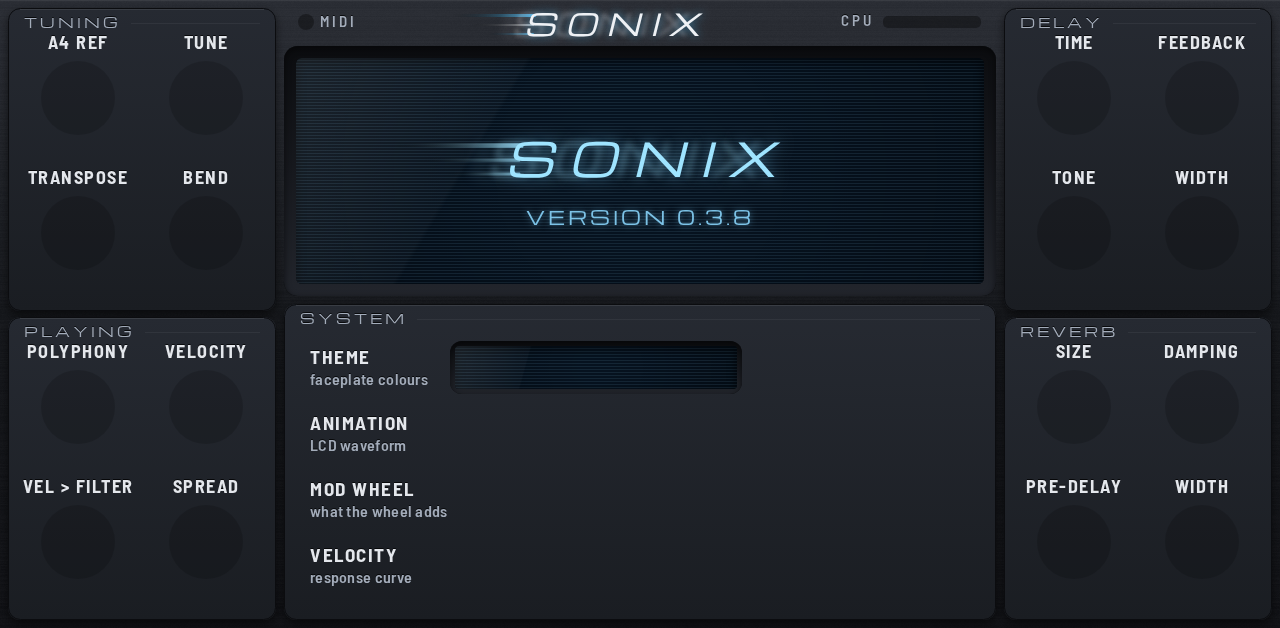
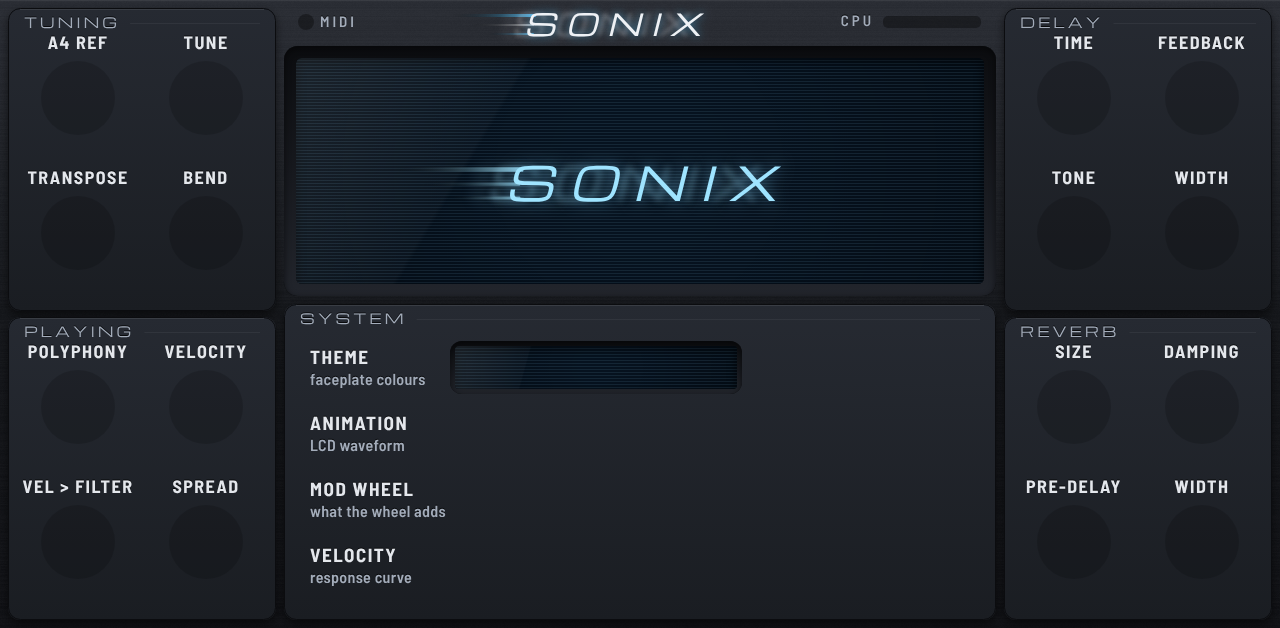
SETTINGS: drop the version from the about screen
It showed a version baked into the artwork, which went stale (0.3.10 still said 0.3.8).
The screen now shows just the logo, so the art no longer needs redrawing per release.
Only the eleven bg_settings.png pictures change.

Claude-Session: https://claude.ai/code/session_01VzP5McZMmBVAin6Mtzdvhn

diff --git a/tools/make_skin.py b/tools/make_skin.py
@@ -36,7 +36,6 @@ ART = os.path.join(VST, "art")
 FONTS = os.path.join(VST, "fonts")
 MPC_FONTS = os.path.join(os.environ.get("MPC_VST", os.path.join(HERE, "..", "..", "mpc-vst-plugins")), "tools", "html_art", "fonts")
 Y_OFF = 86
-VERSION = "0.3.8"
 
 THEMES = ["midnight", "platinum", "studio", "purple", "yellow", "gold", "green", "camo", "red", "silver", "ice"]   # = "theme" options
 THEME_NAMES = ["MIDNIGHT", "PLATINUM", "STUDIO GREY", "PURPLE", "YELLOW", "GOLD", "GREEN", "CAMO", "METALLIC RED", "SILVER", "ICE BLUE"]
@@ -629,10 +628,9 @@ function background(th, items) {
 }
 function aboutScreen(t, s) {
   const [sx, sy, sw, sh] = s, cx = sx + sw / 2;
-  // the plugin's name and version, nothing else
+  // the plugin's name, nothing else (no version: it would have to be redrawn for every release)
   const lt = Object.assign({}, t, { logo: t.lcdText, led: t.lcdText, logoGlow: t.lcdGlow });
-  ctx.save(); logo(lt, cx - 135, sy + sh / 2 + 6, 46); ctx.restore();
-  lcdGlyph(t, 'VERSION ' + C.VERSION, cx, sy + sh / 2 + 54, { size: 19, font: 'Michroma', weight: 400, align: 'center', color: t.lcdDim, spacing: 3 });
+  ctx.save(); logo(lt, cx - 135, sy + sh / 2 + 30, 46); ctx.restore();
 }
 
 // ---------- buttons: raised off, pressed and lit on ----------
@@ -836,7 +834,7 @@ ABOUT_LINES = [
 
 
 def open_page(p, with_mpc_fonts):
-    consts = dict(VERSION=VERSION, VALUE_DY=value_label()[1], TITLE_PX=TITLE_PX, LABEL_PX=LABEL_PX, VALUE_PX=VALUE_PX, BUTTON_PX=BUTTON_PX,
+    consts = dict(VALUE_DY=value_label()[1], TITLE_PX=TITLE_PX, LABEL_PX=LABEL_PX, VALUE_PX=VALUE_PX, BUTTON_PX=BUTTON_PX,
                   KNOB_R=KNOB_R, BTN_W=BTN_W, BTN_H=BTN_H, BTN_GAP=BTN_GAP, CATS=CATS, THEMES=THEMES,
                   WAVE_FRAMES=WAVE_FRAMES, LIST_GAP=LIST_GAP, LCD_BH=LCD_BH, VIEWS=VIEWS, led=HEADER_LED, cpu=CPU_BAR, logoX=LOGO_X, LCD_INK=LCD_INK, KNOB_INK=KNOB_INK, ABOUT=ABOUT_LINES)
     page = (PAGE.replace("CONST_JSON", json.dumps(consts)).replace("THEMES_JSON", json.dumps(THEME_TABLE))

diff --git a/README.md b/README.md
@@ -73,7 +73,7 @@ cd ~ && { [ -d Sonix ] || git clone https://github.com/3dthc/Sonix.git; } && cd 
 
 The first build downloads and builds the instruments (several minutes). It ends with
 `Sonix-<version>-mpc-armv7.zip` in your Windows Downloads. Install it on the MPC like any other plugin, then restart
-the MPC. The SETTINGS page shows the version you are running. TESTING.md has a checklist for trying a new build.
+the MPC. TESTING.md has a checklist for trying a new build.
 
 ## Building from source
 
